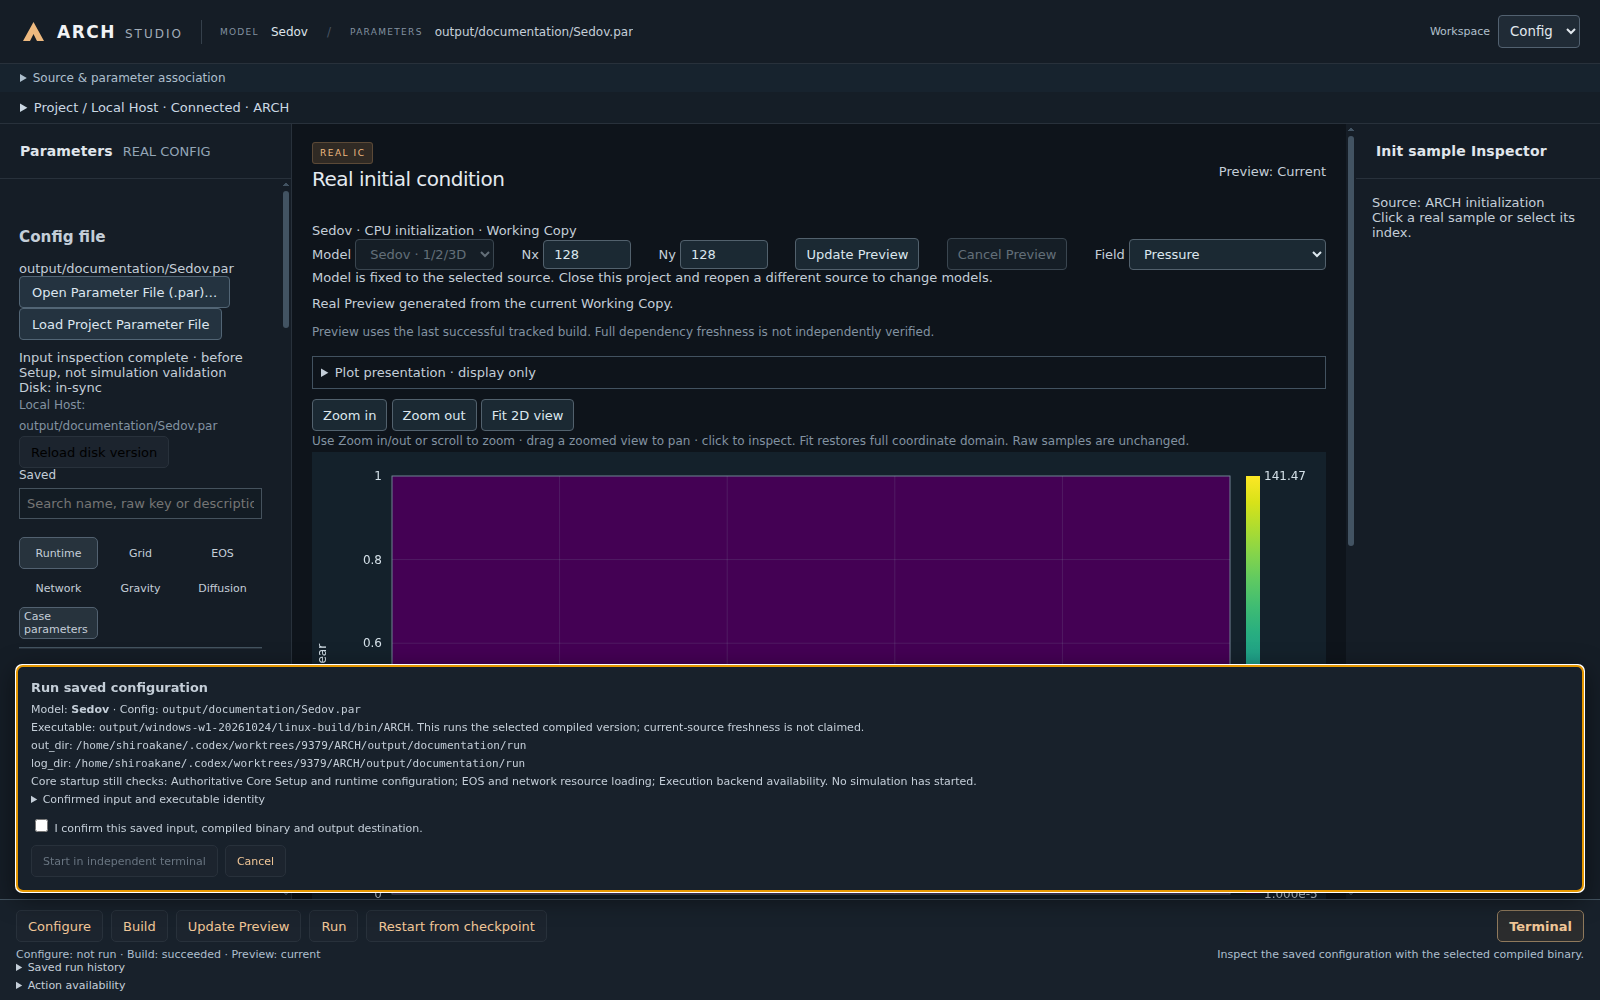
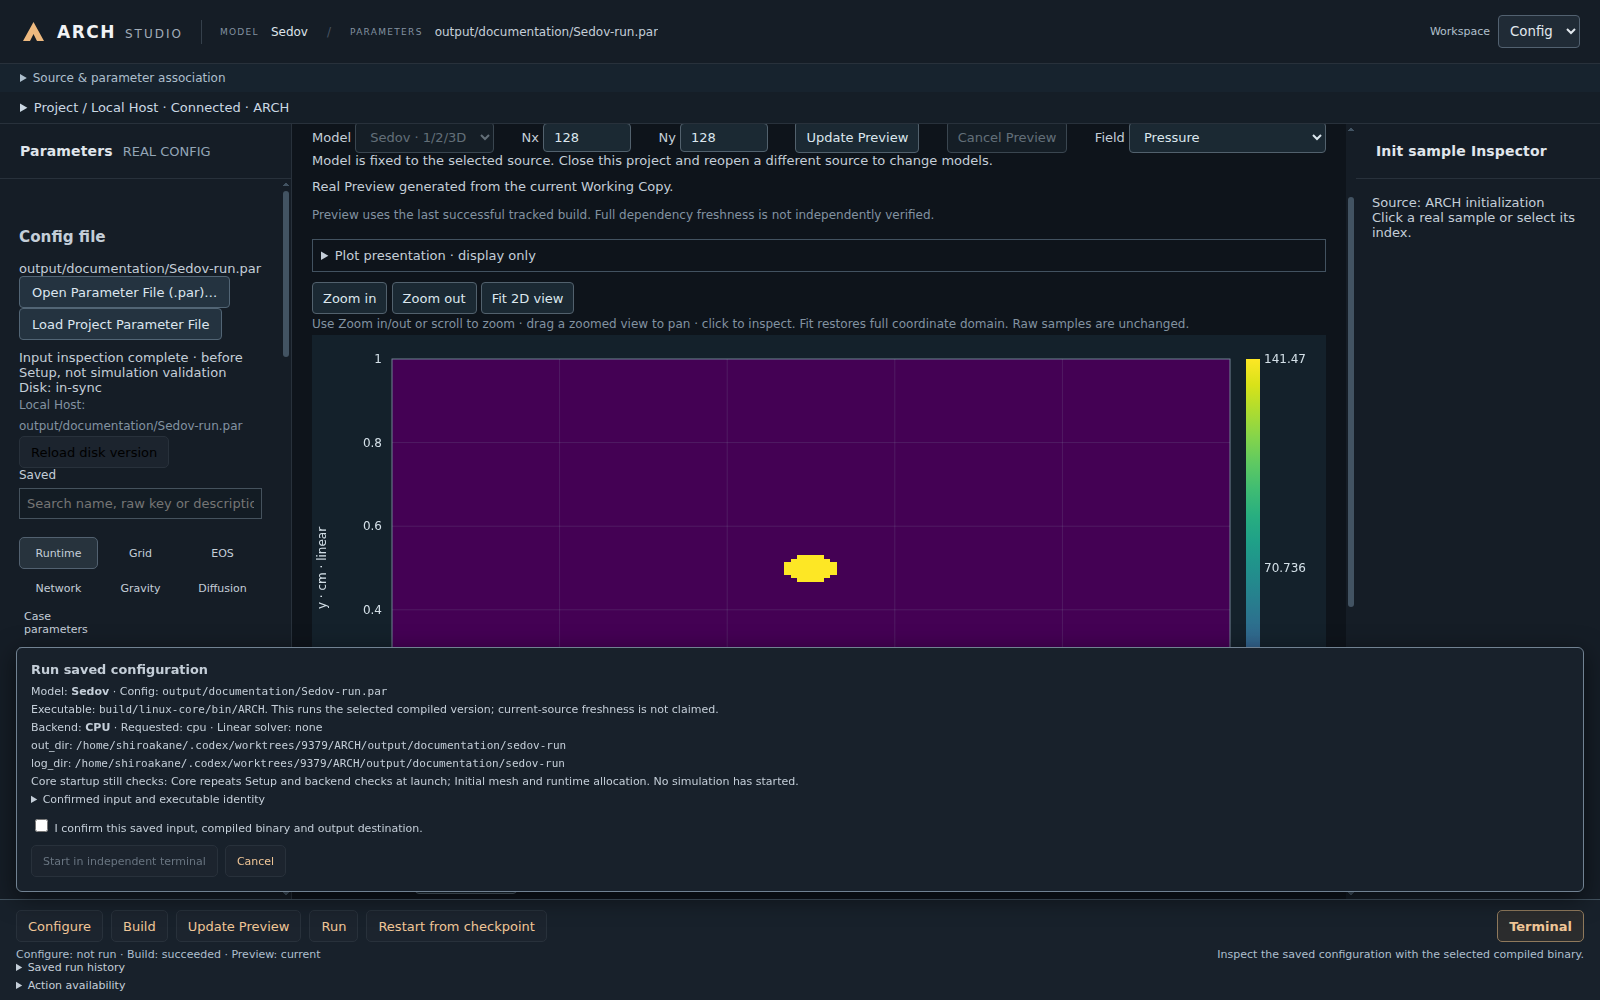
docs: show current backend selection in Studio Run screenshot

diff --git a/docs/guides/images/README.md b/docs/guides/images/README.md
@@ -12,8 +12,8 @@ the enabled outline overlay shows its bounded subset of 128 blocks. Read raw
 samples or select a cell to inspect stored values.
 
 The parameter illustration selects `deposit_radius = 0.03 cm` and displays the
-initial pressure field. The Run illustration shows the saved-input confirmation
-before launch. The images show the shared Linux/Windows workspaces in a Linux
+initial pressure field. The Run illustration shows the saved input, requested
+and selected compute backends, and linear solver before launch confirmation. The images show the shared Linux/Windows workspaces in a Linux
 Electron window.
 
 | Image | View |
